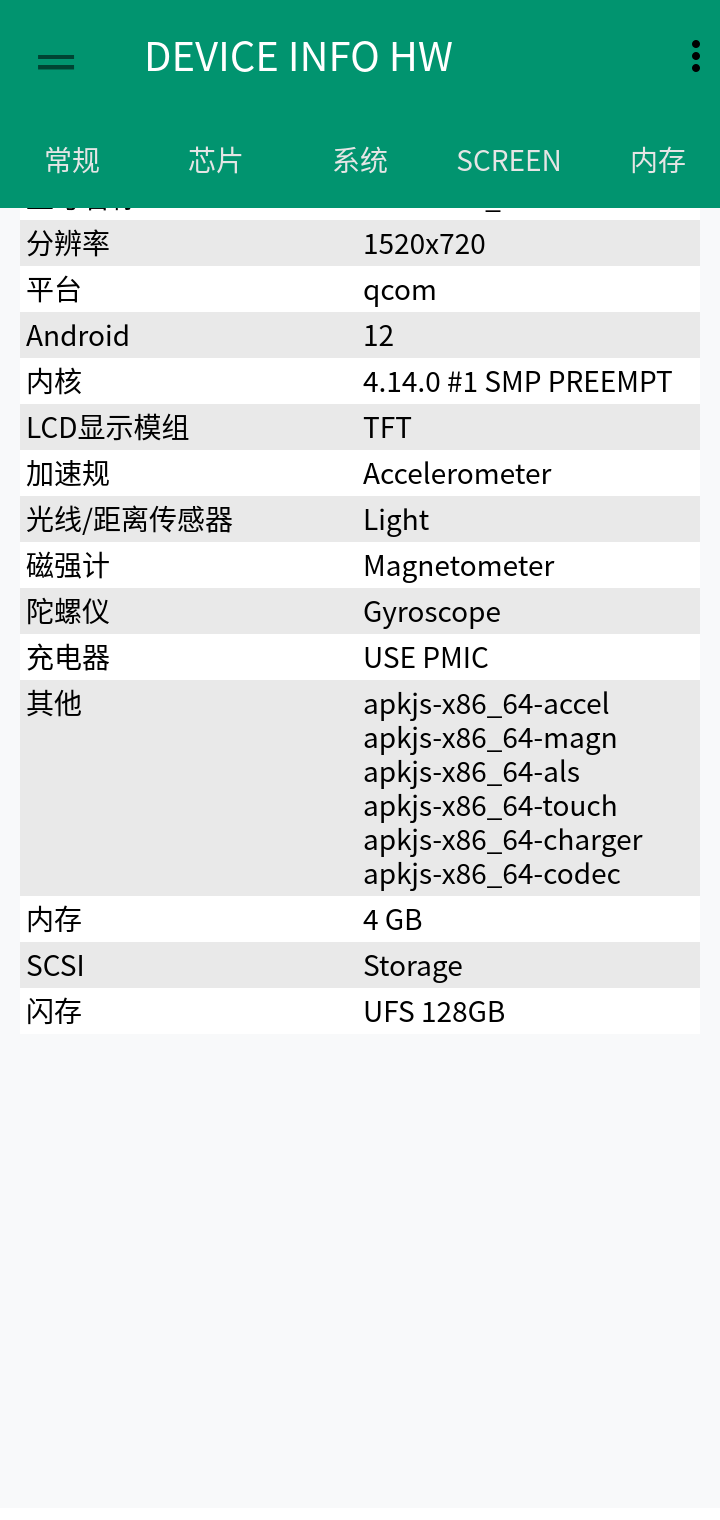
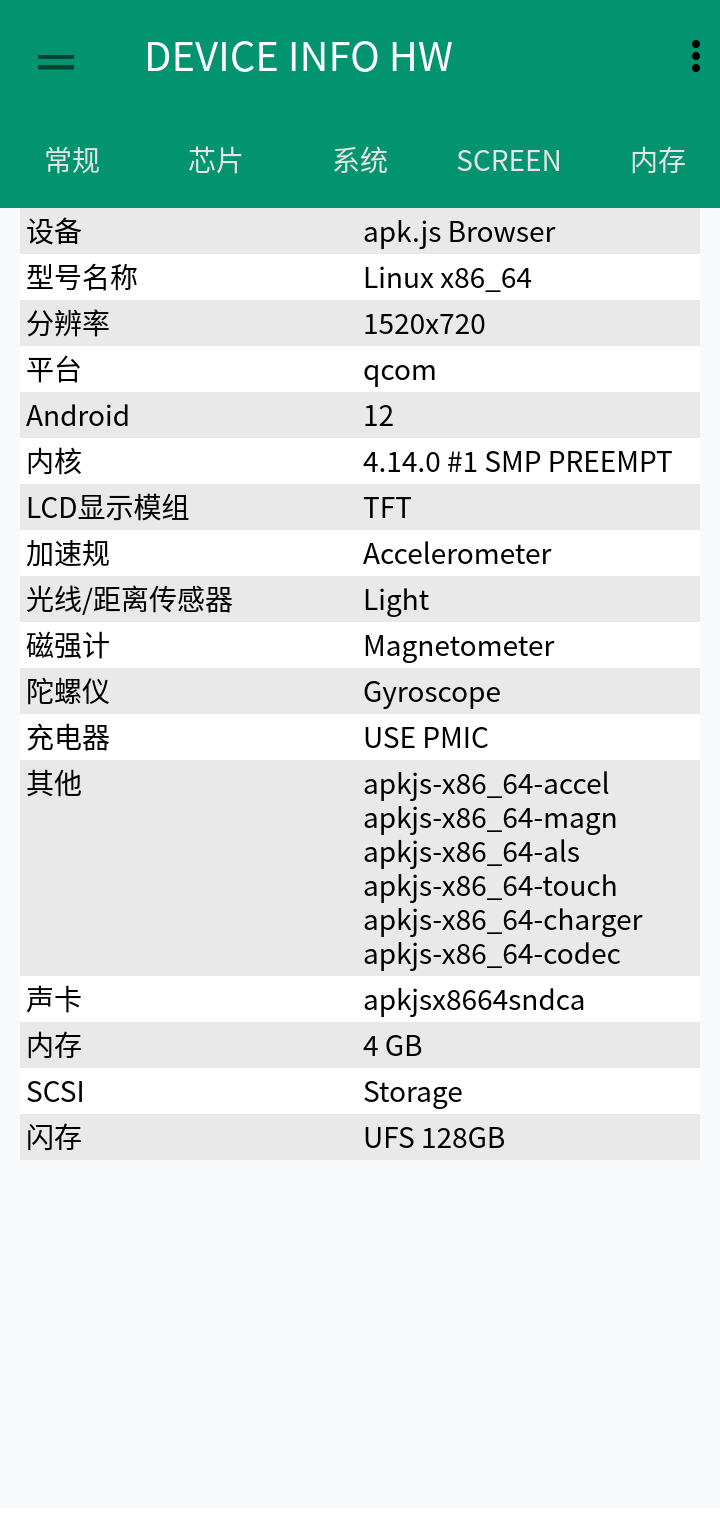
feat: update workspace

Changed region(s): [[0.4889, 0.1237, 0.9167, 0.773], [0.0306, 0.1237, 0.3361, 0.5257], [0.0306, 0.5875, 0.1222, 0.773]]

diff --git a/src/framework/registry.js b/src/framework/registry.js
@@ -22507,6 +22507,9 @@ function makeTypedArrayPeer(vm, values, present = null, attrIds = null) {
       return value;
     },
     getBoolean: (index, fallback) => {
+      if (globalThis.__DBG_TA && (indexAttrId(index) >>> 0) === 0x010103df) {
+        console.log('DBGTA.getBoolean', index, fallback, isPresent(index), typeof lookup(index), lookup(index));
+      }
       if (!isPresent(index)) return fallback;
       const value = lookup(index);
       if (value === true || value === false) return value;
@@ -22516,6 +22519,9 @@ function makeTypedArrayPeer(vm, values, present = null, attrIds = null) {
     getInt: (index, fallback) => {
       if (!isPresent(index)) return fallback;
       const value = lookup(index);
+      if (globalThis.__DBG_TA && (indexAttrId(index) >>> 0) === 0x010103df) {
+        console.log('DBGTA.getInt', index, fallback, typeof value, value, new Error().stack.split('\n').slice(2, 5).join(' <- '));
+      }
       return typeof value === 'number' ? value | 0 : fallback;
     },
     getInteger: (index, fallback) => {
@@ -23075,6 +23081,22 @@ function createTypedArray(vm, attrs, styleId, attributeSet = null, defStyleAttr 
   // TypedArray 的访问器收的是 attr 数组下标，不是 attr id。
   // 必须把原始数组传下去，否则缺失的 attr 会让下标错位。
   object.$peer = makeTypedArrayPeer(vm, values, null, ids);
+  if (globalThis.__DBG_TA) {
+    const peer = object.$peer;
+    globalThis.__DBG_TA_COUNT = (globalThis.__DBG_TA_COUNT || 0) + 1;
+    if (globalThis.__DBG_TA_COUNT <= 3) console.log('DBGTA.created', globalThis.__DBG_TA_COUNT, ids.length);
+    for (const key of ['getInt', 'getBoolean', 'getInteger', 'getValue', 'hasValue']) {
+      const orig = peer[key].bind(peer);
+      peer[key] = (...args) => {
+        const result = orig(...args);
+        const cm = vm.interpreter?.currentMethod;
+        if (globalThis.__DBG_TA === 2 || (cm && /appcompat\/widget\/x;/.test(cm.classDesc))) {
+          console.log('DBGTA', key, JSON.stringify(args), '=>', result, 'attr=', ((peer.attrIds?.[args[0]] ?? 0) >>> 0).toString(16), 'cur=', cm ? cm.classDesc + '.' + cm.name : 'none');
+        }
+        return result;
+      };
+    }
+  }
   return object;
 }
 

diff --git a/src/framework/java-core.js b/src/framework/java-core.js
@@ -6107,7 +6107,9 @@ function seedHardwareFs() {
   write('/proc/mounts', mountTable);
   write('/proc/self/mounts', mountTable);
   write('/proc/bootdevice/type', 'ufs\n');
-  write('/proc/asound/card0/id', '\n');
+  // ALSA 的声卡 id 是全小写字母数字、最长 15 字符的短名。
+  const soundCardId = identity.soundCard.replace(/[^A-Za-z0-9]/g, '').slice(0, 15);
+  write('/proc/asound/card0/id', soundCardId + '\n');
   write('/proc/scsi/scsi', 'Host: scsi0 Channel: 00 Id: 00 Lun: 00\n  Vendor: Linux    Model: UFS 128GB        Rev: 0001\n');
   write('/proc/bus/input/devices', [
     'I: Bus=0018 Vendor=0000 Product=0000 Version=0000',
@@ -6358,7 +6360,7 @@ function seedHardwareFs() {
   write('/proc/asound/card0/codec#0', `Codec: ${audioCodec}\n`);
   write('/proc/asound/card0/codec#1', `Codec: ${audioCodec}\n`);
   write('/proc/asound/card0/pcm0p/info', `card: 0\ndevice: 0\nsubdevice: 0\nstream: PLAYBACK\nid: MultiMedia1\nname: MultiMedia1\nsubname: subdevice #0\nclass: 0\nsubclass: 0\nsubdevices_count: 1\nsubdevices_avail: 1\n`);
-  write('/proc/asound/cards', ' 0 [' + identity.soundCard + ']: ' + identity.platform + ' - ' + identity.platform + '\n                      ' + identity.tag + ' SoC - ' + identity.soundCard + '\n');
+  write('/proc/asound/cards', ' 0 [' + soundCardId + ']: ' + identity.platform + ' - ' + identity.platform + '\n                      ' + identity.tag + ' SoC - ' + identity.soundCard + '\n');
   write('/proc/asound/devices', '  0: [ 0]   : control\n 16: [ 0- 0]: digital audio playback\n 24: [ 0- 0]: digital audio capture\n');
   write('/sys/class/sound/card0/id', identity.soundCard + '\n');
 

diff --git a/src/framework/view.js b/src/framework/view.js
@@ -1594,17 +1594,9 @@ export class View {
   offsetTopAndBottom(offset) {
     const delta = offset | 0;
     if (!delta) return;
-    // 滚动容器靠平移子项来实现滚动，
-    // 所以这里必须同时让父级重绘，并把滚动量反映到容器的滚动状态上，
-    // 否则触摸能到达 DEX、可界面永远不动。
-    const parent = this.parent || null;
-    if (parent) {
-      parent.$offsetAccumY = (parent.$offsetAccumY || 0) + delta;
-      if (parent.$offsetAccumY < 0) {
-        parent.scrollY = Math.max(0, (parent.scrollY | 0) - parent.$offsetAccumY);
-        parent.$offsetAccumY = 0;
-      }
-    }
+    // AOSP 的 offsetTopAndBottom 只调整子项位置（SwipeRefreshLayout 的刷新
+    // 指示器、AppBarLayout 折叠等都靠它），不代表容器滚动：绝不能再把偏移
+    // 折算进父级的 scrollY，否则一个藏在顶边外的子项会让整页内容被裁掉。
     this.top += delta;
     this.bottom += delta;
     if (typeof this.onOffsetChanged === 'function') this.onOffsetChanged(0, delta);
